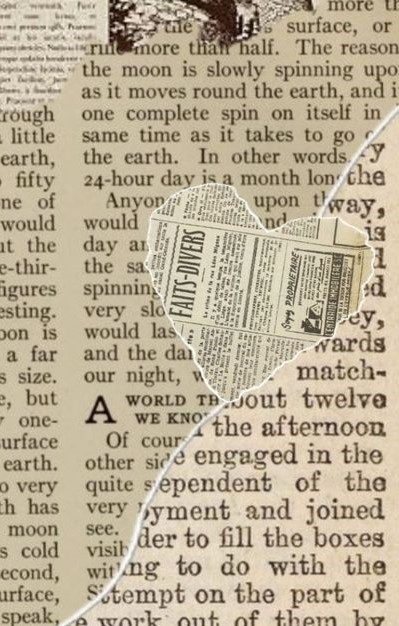
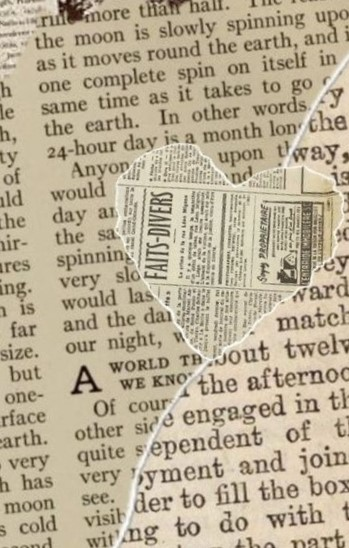
fix cards

diff --git a/src/components/cards/cardOne.jsx b/src/components/cards/cardOne.jsx
@@ -33,7 +33,7 @@ export default function ProjectCard({
         <img
           src={backImage}
           alt=""
-          className="w-full h-full object-cover pointer-events-none"
+          className="w-full h-full object-cover pointer-events-none opacity-80"
         />
       </Card>
 
@@ -46,7 +46,7 @@ export default function ProjectCard({
           backfaceVisibility: "hidden",
         }}
         animate={{ rotateZ: hovered ? -5 : 0 }}
-        transition={{ duration: 0.5, ease: "easeOut" }}
+        transition={{ duration: 0.5, ease: "ease`Out" }}
       >
         <Card className={`w-full h-full cursor-pointer ${className}`}>
           <CardHeader className="flex flex-col items-start gap-10 px-8 py-8">

diff --git a/src/App.jsx b/src/App.jsx
@@ -115,6 +115,7 @@ function App() {
                     className="bg-card-foreground"
                     titleClassName="text-primary-foreground"
                     descClassName="font-medium text-primary-foreground"
+                    link="https://www.behance.net/gallery/252209775/SaEco-Waste-Segregation-with-AI-Recognition"
                   />
                 </div>
                 <div className="flex flex-row items-center justify-center gap-16">
@@ -125,6 +126,7 @@ function App() {
                     className="bg-card-secondary"
                     titleClassName="text-primary-foreground"
                     descClassName="font-medium text-primary-foreground"
+                    link="https://www.behance.net/gallery/252581727/deufgwefjkf"
                   />
                   <ProjectCard
                     title="FEATURED WORK"